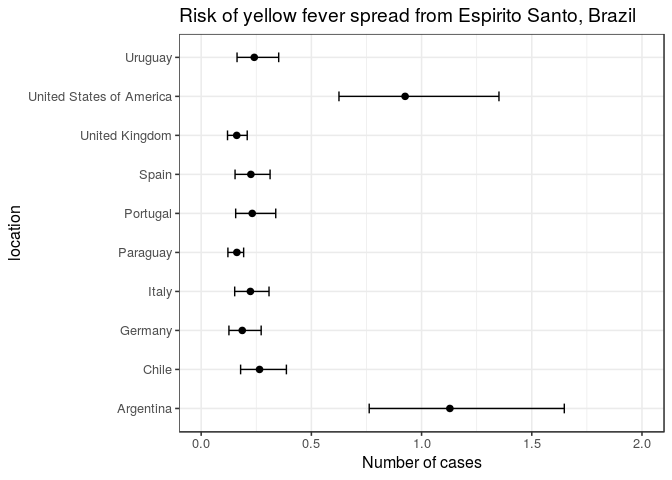
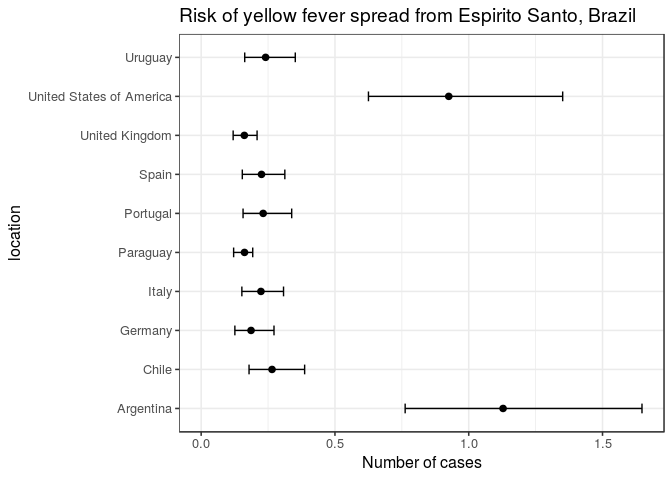
add vignette and readme

diff --git a/README.md b/README.md
@@ -51,18 +51,7 @@ Estimating the number of new cases flowing to other countries from
 Espirito Santo, Brazil (Dorigatti *et al.*, 2017).
 
 ``` r
-library("epicontacts")
 library("epiflows")
-```
-
-    ## 
-    ## Attaching package: 'epiflows'
-
-    ## The following object is masked from 'package:epicontacts':
-    ## 
-    ##     get_id
-
-``` r
 library("ggplot2")
 data("Brazil_epiflows")
 print(Brazil_epiflows)
@@ -152,7 +141,7 @@ ggplot(res, aes(x = mean_cases, y = location)) +
   theme_bw(base_size = 12, base_family = "Helvetica") +
   ggtitle("Risk of yellow fever spread from Espirito Santo, Brazil") +
   xlab("Number of cases") +
-  xlim(c(0, 2))
+  xlim(c(0, NA))
 ```
 
 ![](README_files/figure-gfm/the_estimate-1.png)<!-- -->
